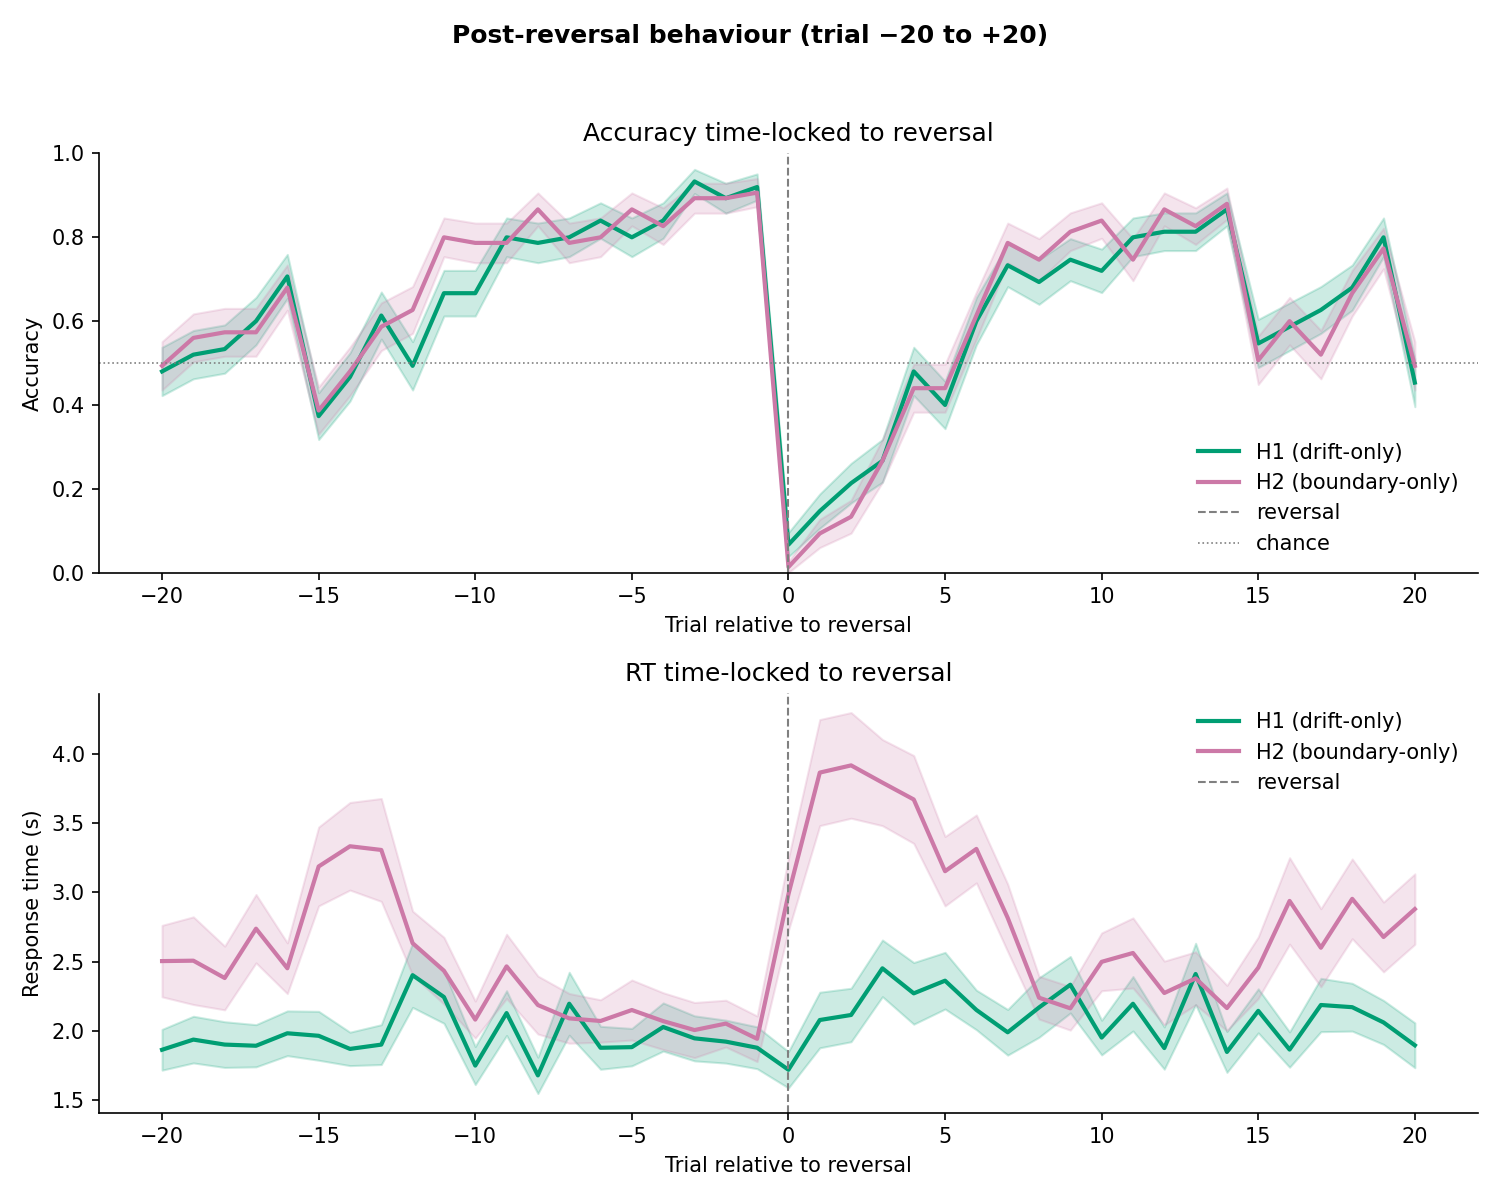
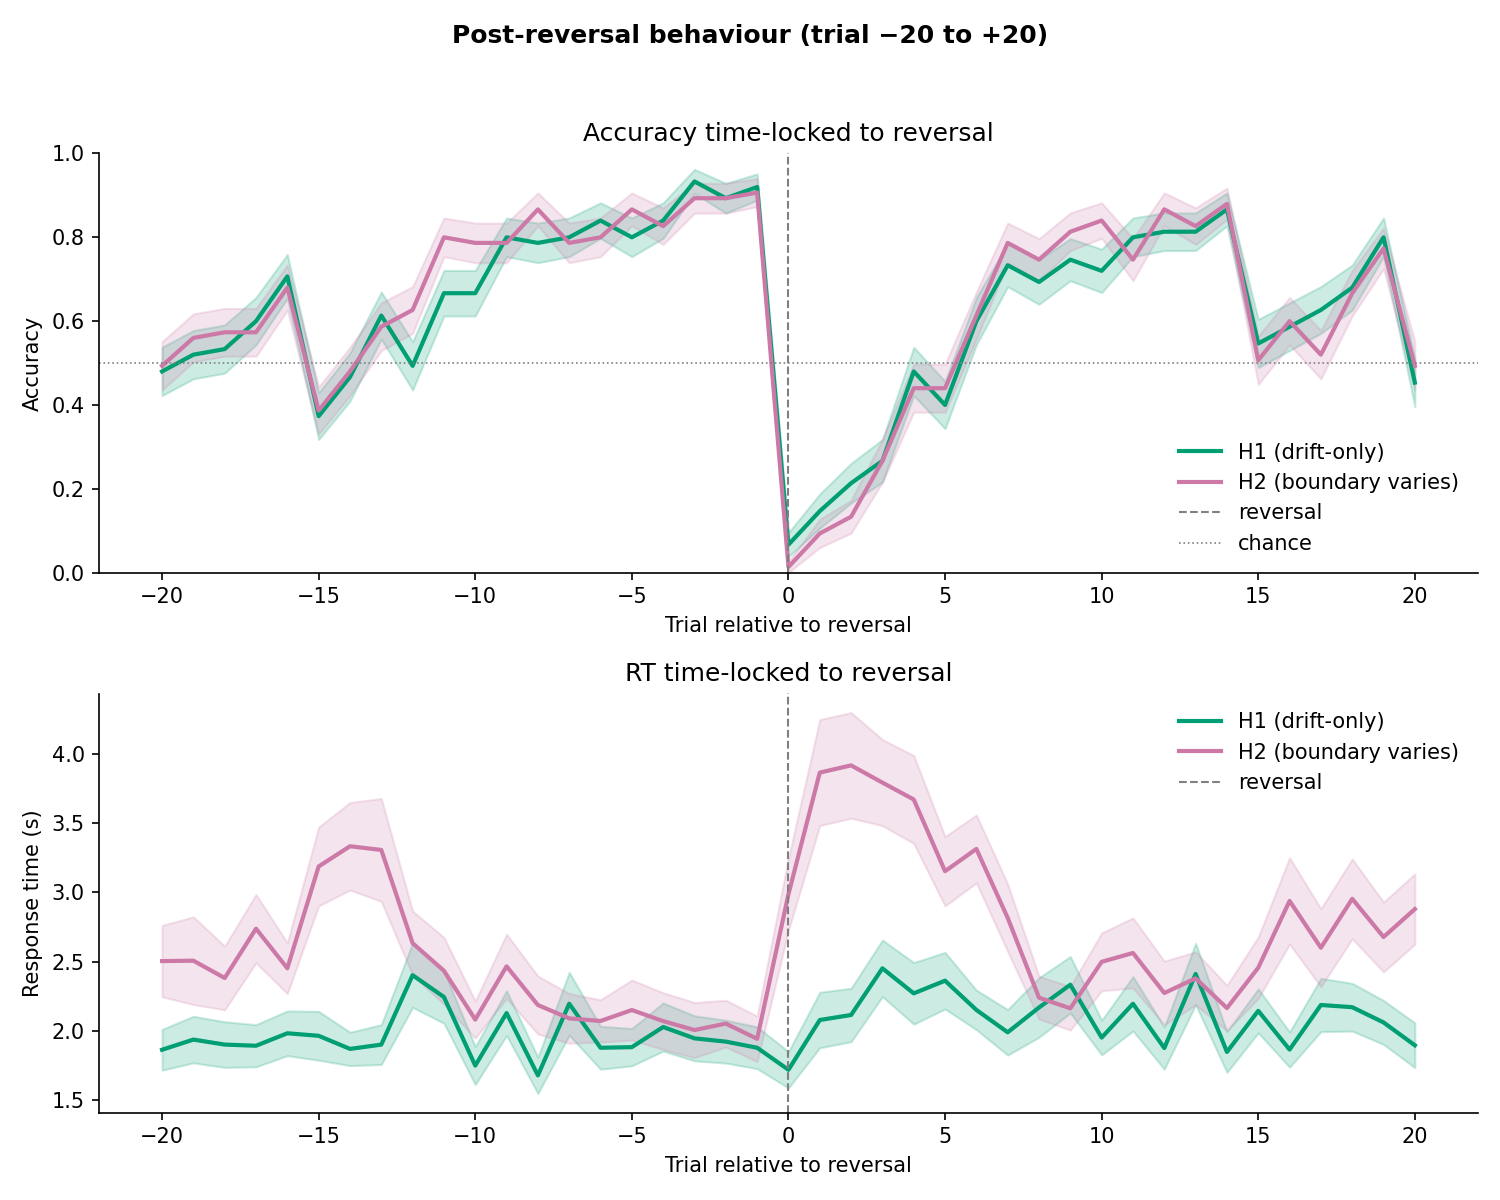
Rename H2 label from 'boundary-only' to 'boundary varies' for accuracy

Changed region(s): [[0.828, 0.5858, 0.9813, 0.6783], [0.828, 0.37, 0.9507, 0.4625]]

diff --git a/generate_plots.py b/generate_plots.py
@@ -58,7 +58,7 @@ h1_subjects = simulate_group(H1_PARS, N_SUBJECTS, seed_offset=42)
 h2_subjects = simulate_group(H2_PARS, N_SUBJECTS, seed_offset=142)
 
 fig1 = plot_reversal_locked(
-    {"H1 (drift-only)": h1_subjects, "H2 (boundary-only)": h2_subjects},
+    {"H1 (drift-only)": h1_subjects, "H2 (boundary varies)": h2_subjects},
     list(RP), window=20,
 )
 fig1.savefig("reversal_locked.png", dpi=150)

diff --git a/confusion_matrix.py b/confusion_matrix.py
@@ -1,4 +1,4 @@
-"""Confusion matrix model comparison: H1 (drift-only) vs H2 (boundary-only).
+"""Confusion matrix model comparison: H1 (drift-only) vs H2 (boundary varies).
 
 Simulates data under each model, fits both models to both datasets, and
 produces a 2×2 confusion matrix showing which model wins (by BIC) in each

diff --git a/reversal_locked_plots.py b/reversal_locked_plots.py
@@ -178,7 +178,7 @@ if __name__ == "__main__":
         h2_subjects.append(sim)
 
     fig = plot_reversal_locked(
-        {"H1 (drift-only)": h1_subjects, "H2 (boundary-only)": h2_subjects},
+        {"H1 (drift-only)": h1_subjects, "H2 (boundary varies)": h2_subjects},
         list(rp), window=20,
     )
 

diff --git a/parameter_recovery.py b/parameter_recovery.py
@@ -160,4 +160,4 @@ if __name__ == "__main__":
                "kappa": 2.0, "tau": 5.0, "w": 0.5, "t0": 0.25}
     print("\nFitting H2 recovery...")
     r2 = run_recovery("H2", h2_true, n_restarts=5, seed=42)
-    print_results(r2, "H2 (boundary-only)")
+    print_results(r2, "H2 (boundary varies)")
